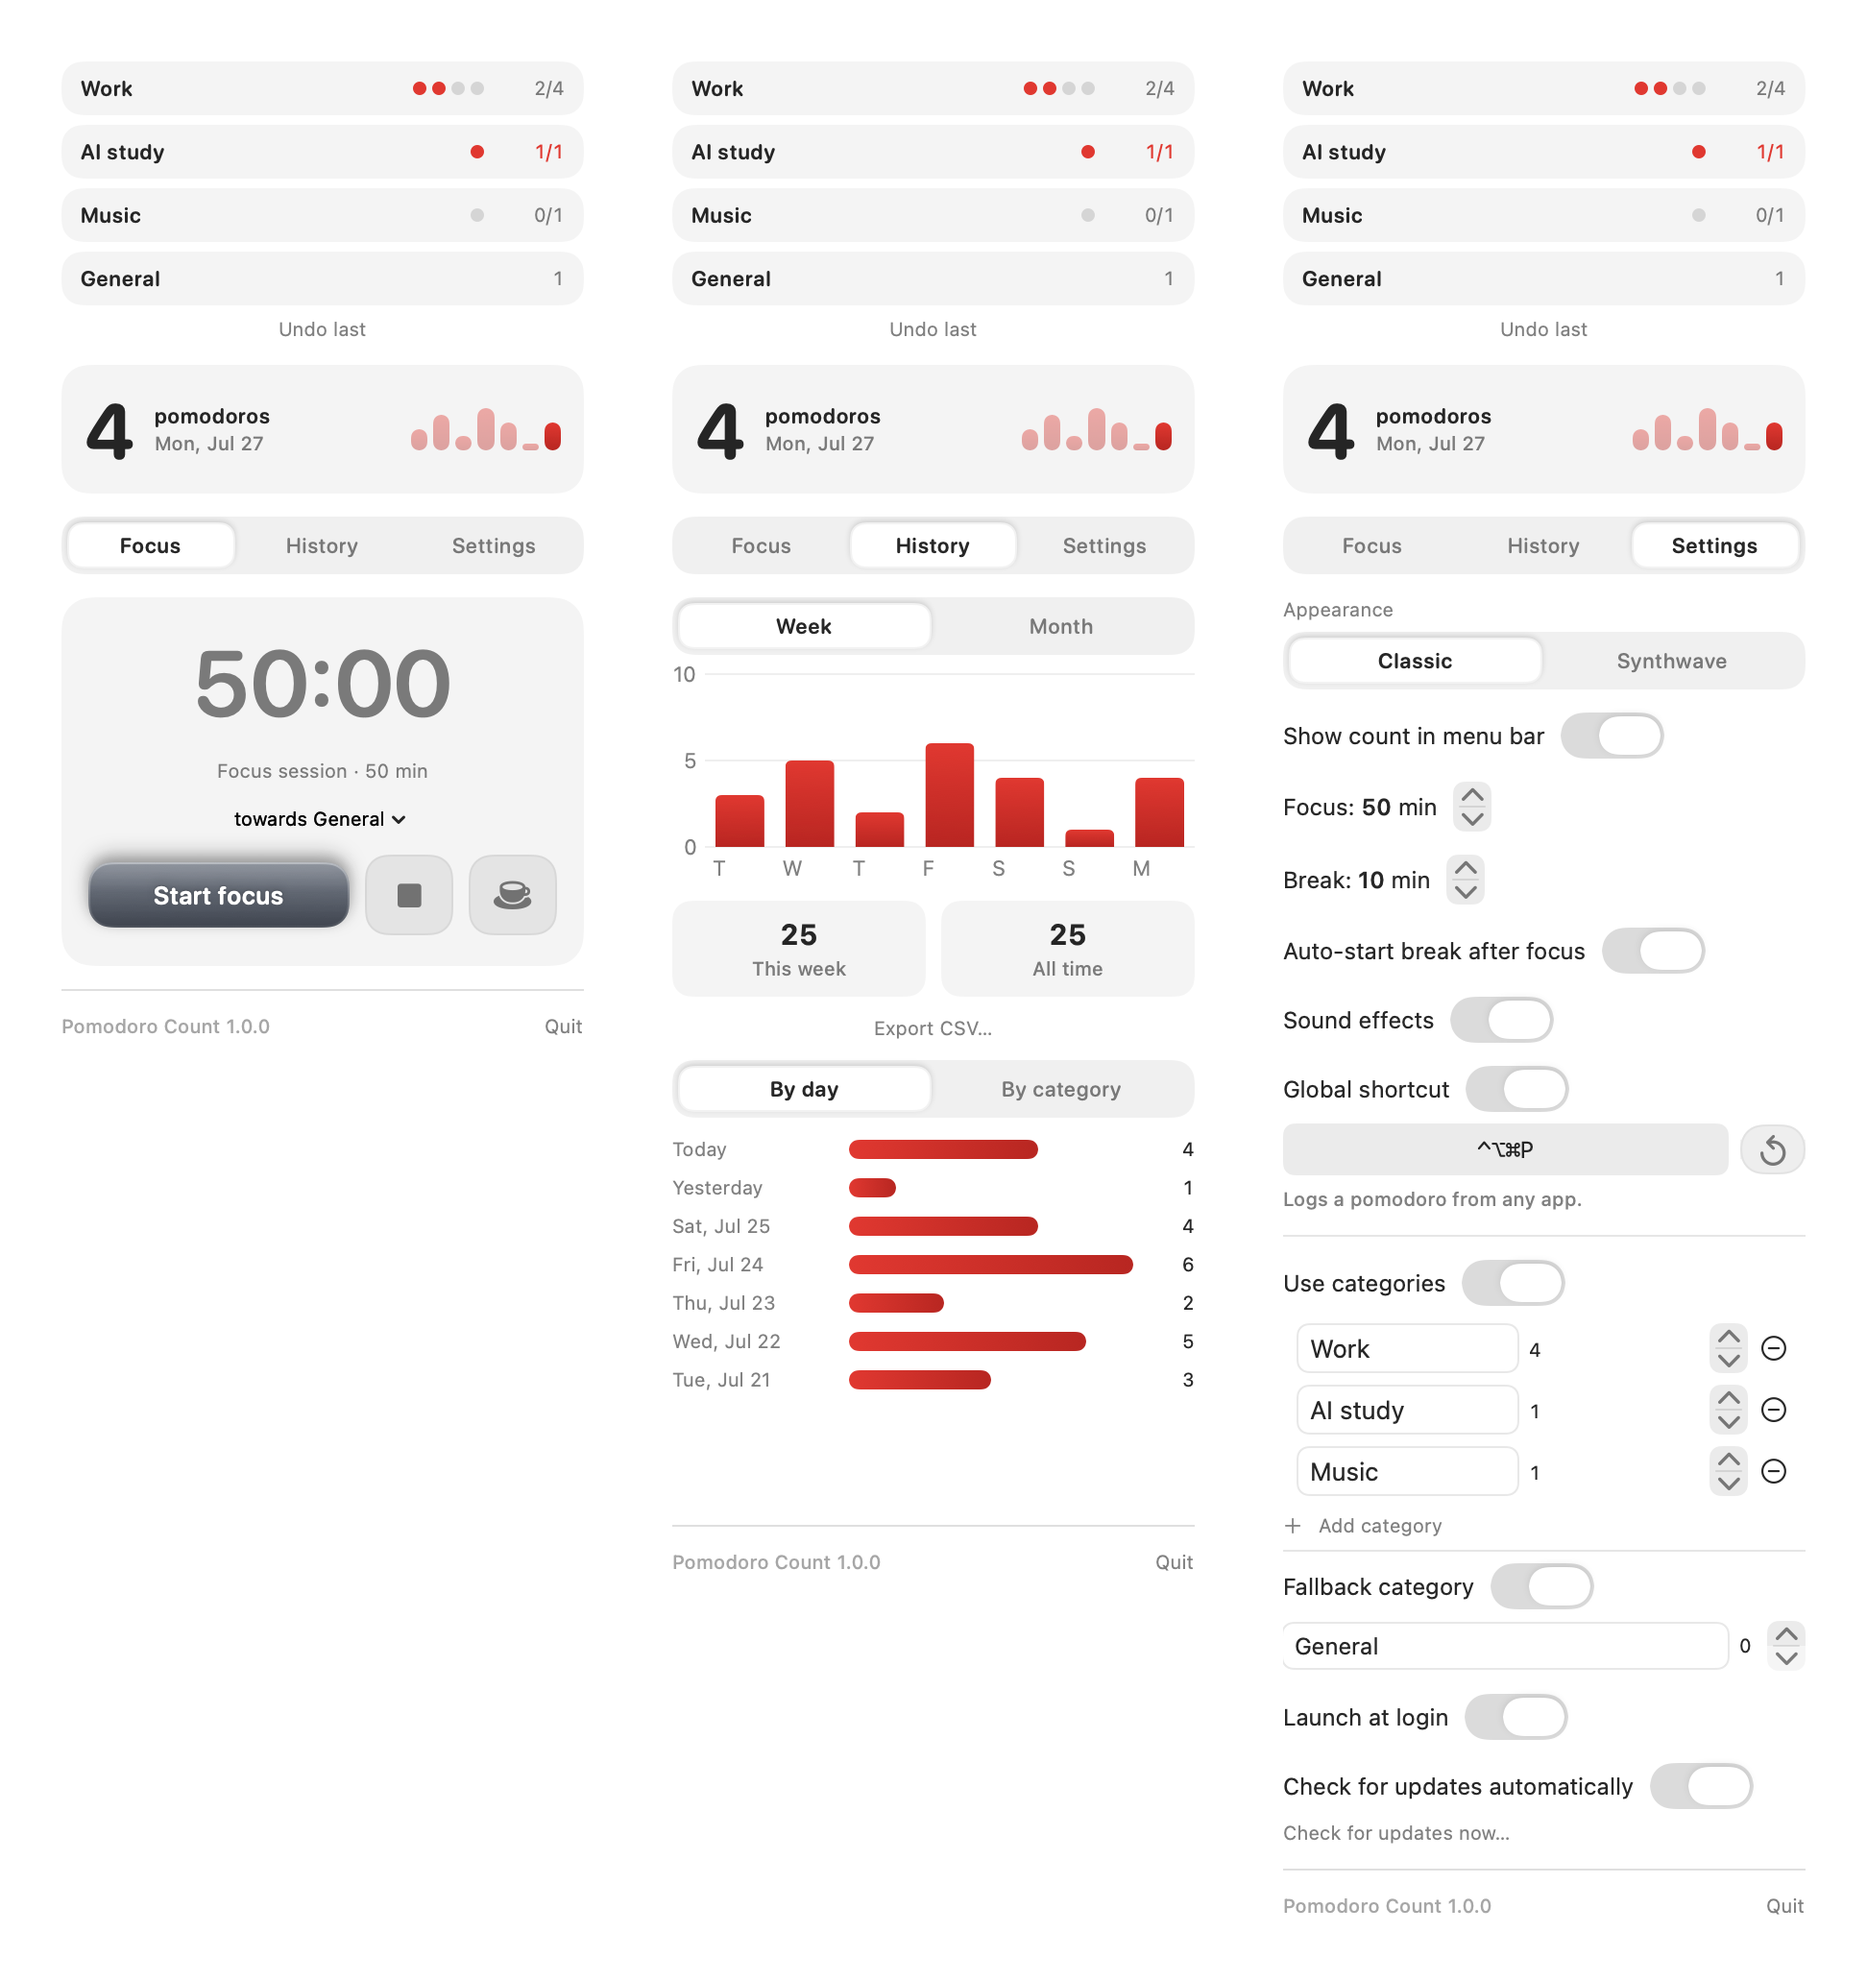
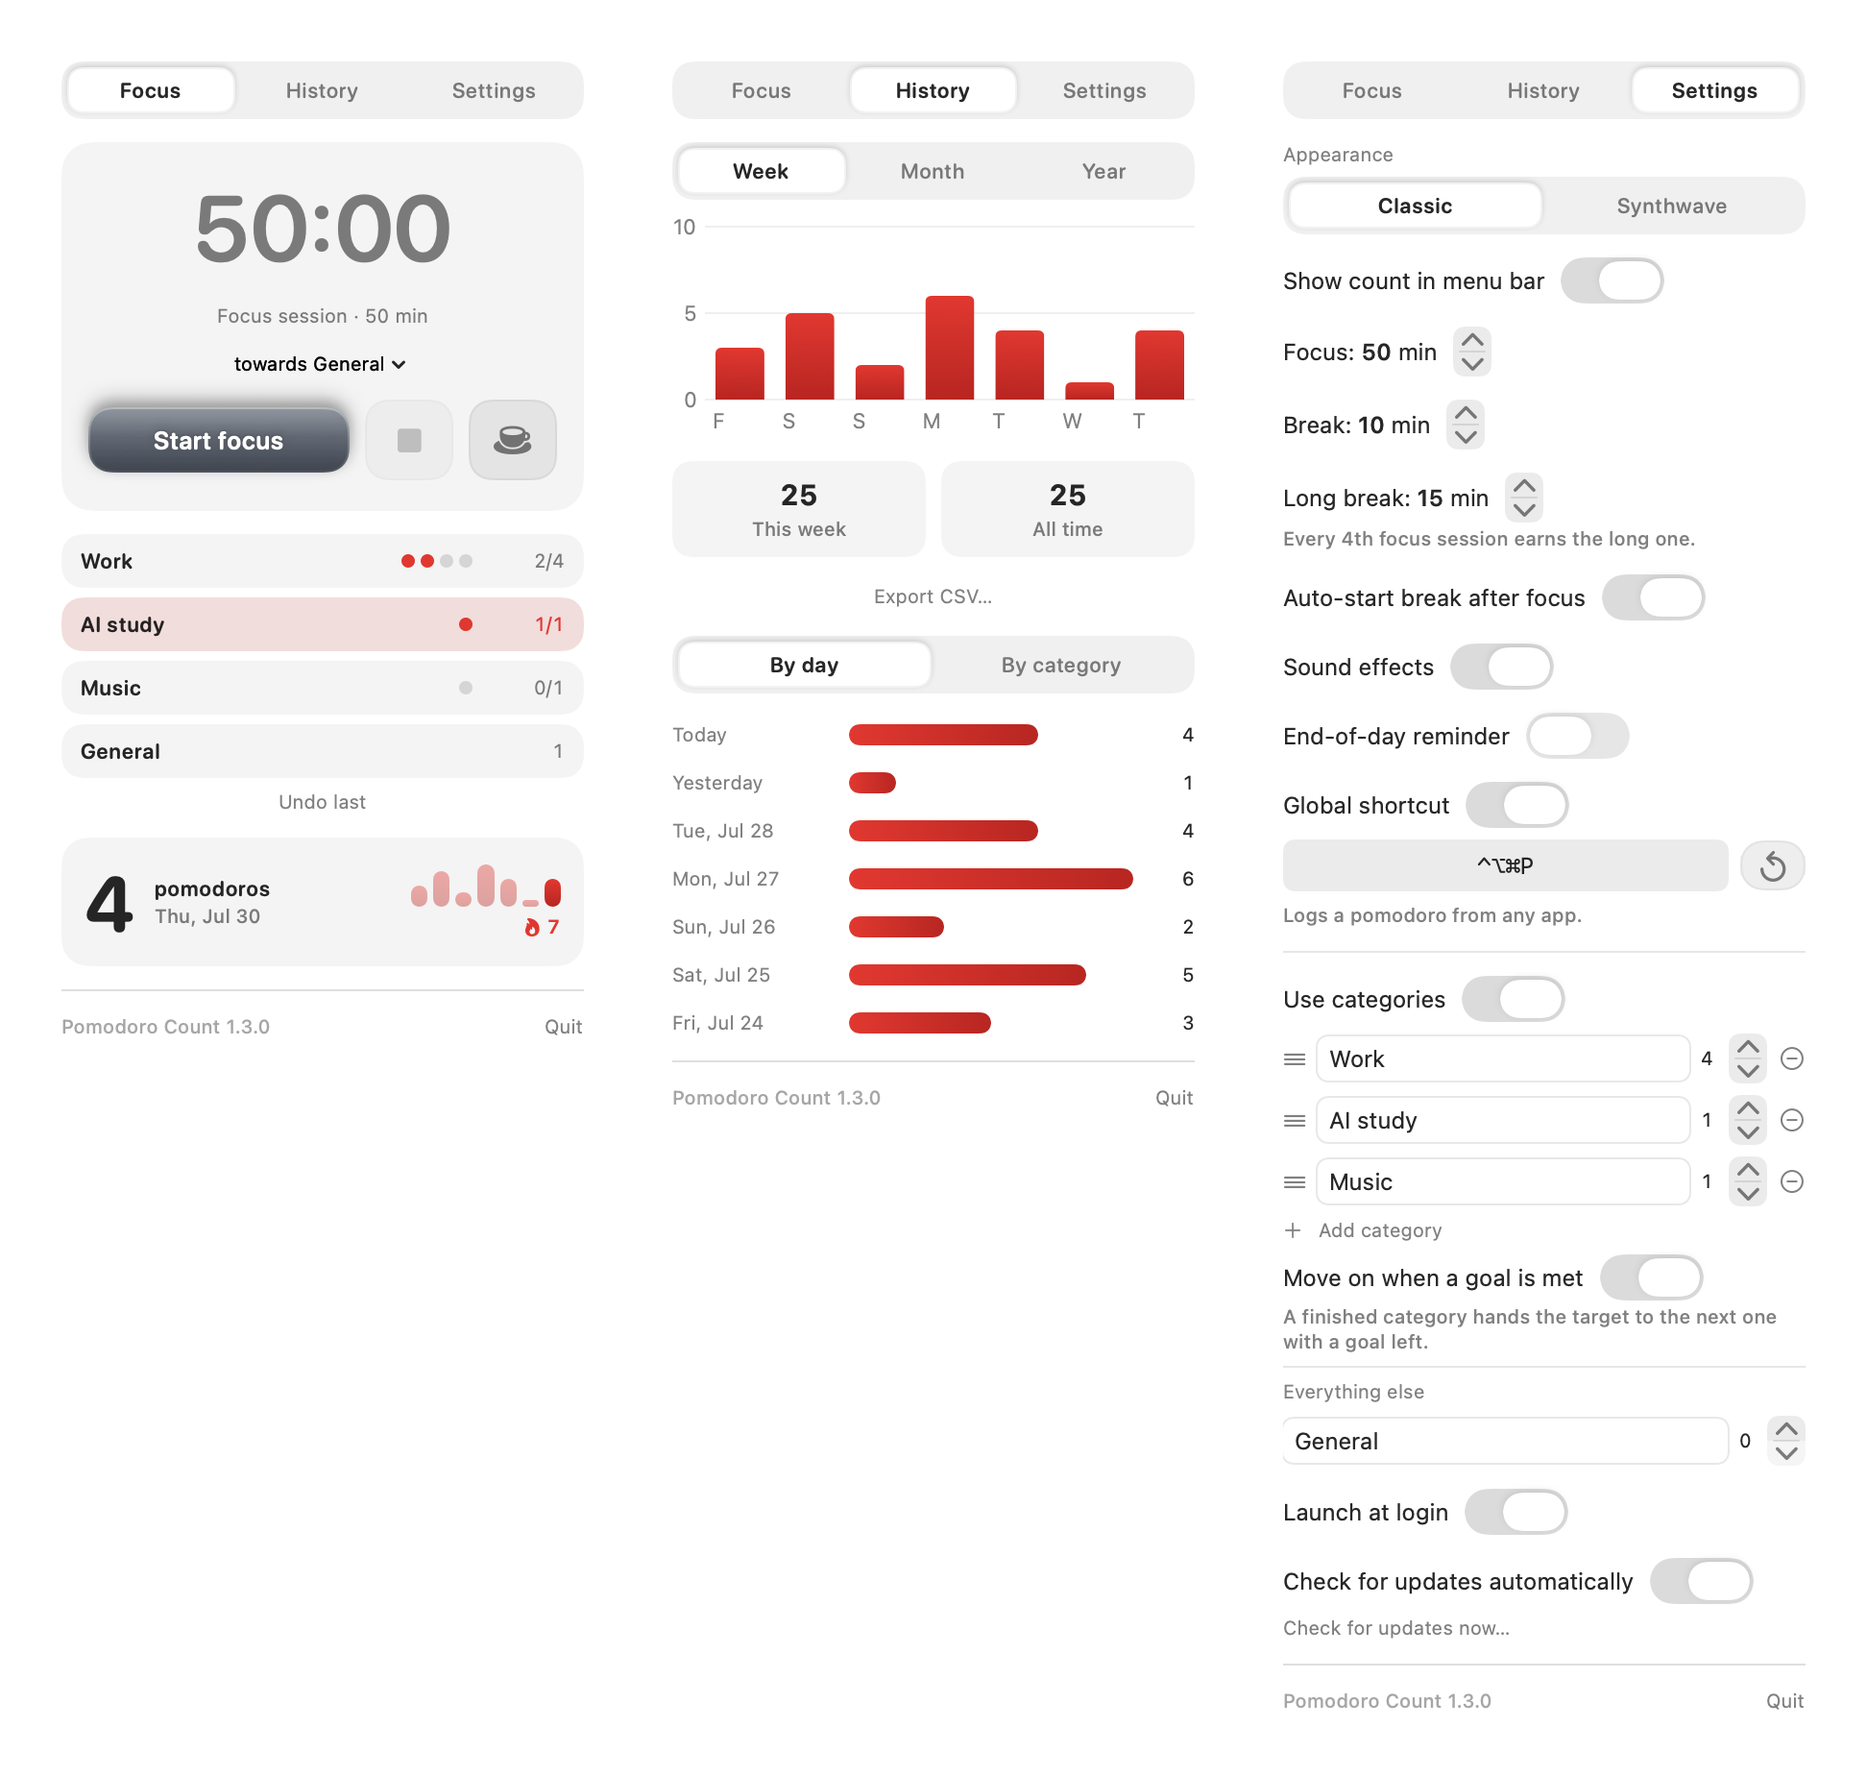
Bring the docs up to the app they describe
The README's timer paragraph still said a finished session just ran the
break or didn't; it now describes the break that waits, the stop button
that skips it, and the long one staying owed when skipped. Both panel
screenshots were rendered on 27 Jul and predate the Focus tab's reorder,
the session-target pill, the dimmed disabled controls and the deeper
Synthwave idle button — re-rendered from the built 1.3.0 bundle, which
is also why they now show the rows only a real bundle has.

AGENTS.md gains the three things a new agent would otherwise learn by
breaking them: `just uitest-dynamics` and why that bundle is split out,
that `Phase` has a fourth case with its own long-break source of truth,
and the two palette rules — branch on `ControlState`, and don't stack
two neon light sources in one card.

diff --git a/Sources/PomodoroCount/Theme.swift b/Sources/PomodoroCount/Theme.swift
@@ -77,7 +77,7 @@ struct Palette {
     var trackFill: Color
     var trackStroke: Color
     var hairline: Color
-    /// How far a disabled control fades — well, border and glyph together (see
+    /// How far a disabled control fades — fill, border and glyph together (see
     /// `ControlState`). A colour decision like any other, so it lives here and
     /// not in the styles: Classic dims against the system's own greys, while
     /// Synthwave's glyphs are saturated neon on near-black and need to drop

diff --git a/AGENTS.md b/AGENTS.md
@@ -12,9 +12,17 @@ just build       # release .app into ./build (build-app.sh: compile, bundle, ico
 just install     # build, replace /Applications copy, relaunch
 just dev         # run from source, no bundle
 just preview     # render the whole panel (all three tabs) to a PNG, headless
-just uitest      # XCUITest against the real menu bar item (needs xcodegen + full Xcode)
+just uitest      # both UI bundles: reorder dynamics, then XCUITest against the real menu bar item
+just uitest-dynamics  # only the harness-driven reorder tests — unattended, no Automation Mode prompt
 just release     # tag VERSION and push the tag; CI publishes
 ```
+
+`just uitest` needs xcodegen and a full Xcode, and its XCUITest half asks a
+person at the keyboard to grant Automation Mode. The `DynamicsTests` bundle is
+split out precisely so it doesn't: it drives `--reorder-window` with posted
+CGEvents and the Accessibility API, which is not XCUITest, so it runs
+unattended — but it does move the real pointer, so leave the machine alone
+while it runs.
 
 Single suite: `swift test --filter ReorderTests` (prefix `DEVELOPER_DIR=/Applications/Xcode.app/Contents/Developer` if the active toolchain is the Command Line Tools — `just test` does this dance for you).
 
@@ -84,6 +92,13 @@ that one fact:
   first, so the record credits the target it ran against, then advance. The
   advance is suppressed while a focus session is actually running, so an
   external log can't re-aim a session Start already pointed elsewhere.
+- `Phase` has **four** cases, and `.breakReady` is a state of its own, not a
+  flavour of idle: a finished session's break is armed at its configured length
+  waiting to be started or skipped. Anything that switches on phase must handle
+  it — the compiler catches the `switch`es, not the `if phase == .idle` checks.
+  Its length reads `nextBreakIsLong` (nothing has started, so that is the only
+  truthful source); once the break is *running*, `currentBreakIsLong` is, because
+  `startBreak()` has already zeroed `focusSessionsThisCycle`.
 - `suspendSaves()` has three call sites (a drag reorder, and the two
   record-append-plus-advance pairs above) and **counts depth**, because the
   hotkey and the URL scheme fire the latter two mid-drag; only the outermost
@@ -100,6 +115,20 @@ only told which appearance to draw via the palette's `chrome`; that's why
 Synthwave forces `.dark`. Raw `Color.red`/`.primary`/borderless button styles
 have each burned this codebase before; the WHY comments at the call sites say
 how.
+
+Two rules the palette exists to enforce, both learned the hard way:
+
+- **A button style must branch on `ControlState`, not on pressed/hovering.**
+  The three styles each read `@Environment(\.isEnabled)` and finish with
+  `.dimmed(state, palette)`, so `.disabled(…)` is visible; before that, a dead
+  button looked live and swallowed the press. Disabled outranks hover — a
+  disabled control must not brighten under the pointer, and must stay dark under
+  `PreviewOverrides.forceHover`.
+- **Don't put two neon light sources in one card.** Synthwave's tints are
+  bright enough that a filled button matching the text above it makes the pair
+  bloom into one shape. `ButtonTint.electricCyan` sits deliberately deeper than
+  `idleColor` for that reason, and a white label needs the gradient's *midpoint*
+  to clear ~4.5:1 — the top stop is what fails first.
 
 ## Conventions
 

diff --git a/README.md b/README.md
@@ -99,9 +99,16 @@ menu bar is crowded, turn off **Show count in menu bar** and it shrinks to just
 the icon while idle, still showing the timer during a session.
 
 **Run a timer** if you want one. 50 / 10 minutes by default, configurable, with
-optional auto-start break, a completion sound, and a notification. Every 4th
-completed session earns a longer break (15 minutes, adjustable). Locking the
-screen pauses a running session — time away never counts as focus.
+a completion sound and a notification. Every 4th completed session earns a
+longer break (15 minutes, adjustable). Locking the screen pauses a running
+session — time away never counts as focus.
+
+**The break waits for you.** When a focus session ends, the Focus tab holds the
+break ready rather than dropping back to idle: the big button becomes **Start
+break**, the panel says how long it will be, and the menu bar shows a cup beside
+your count until you take it. The stop button skips it — and a skipped long
+break stays owed, so you still get it after the next session. Prefer not to be
+asked, turn on **Auto-start break after focus** in Settings and it just begins.
 
 **History** gives you a Week / Month chart, a Year heatmap, a per-day list, and
 this-week and all-time totals. Today's count resets at midnight; past days stay
